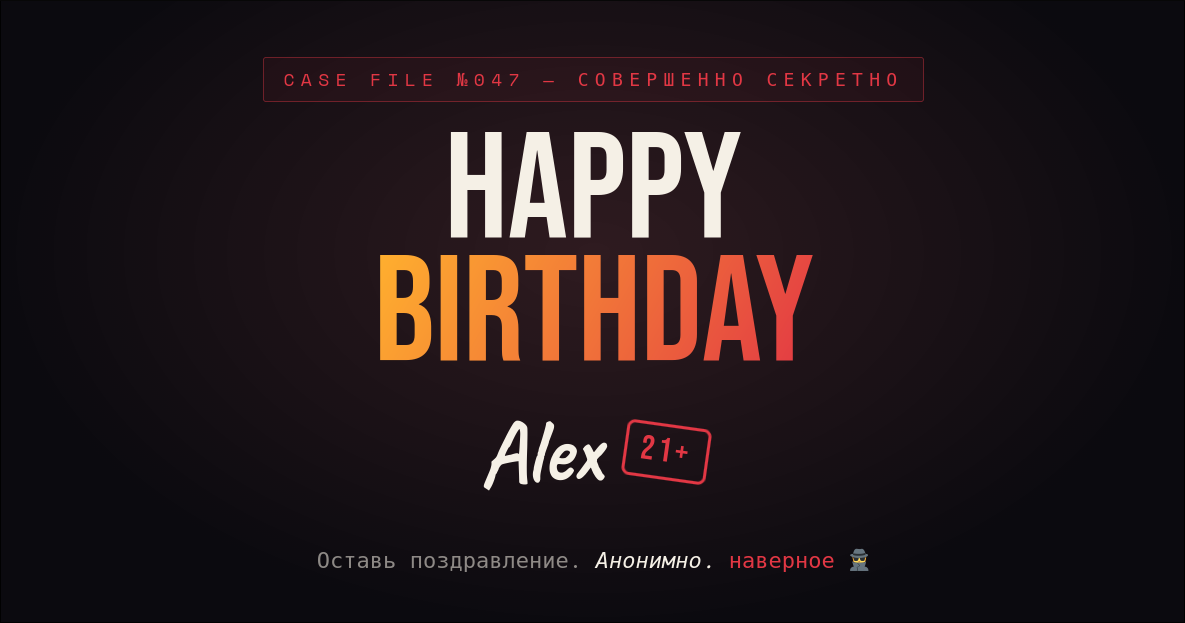
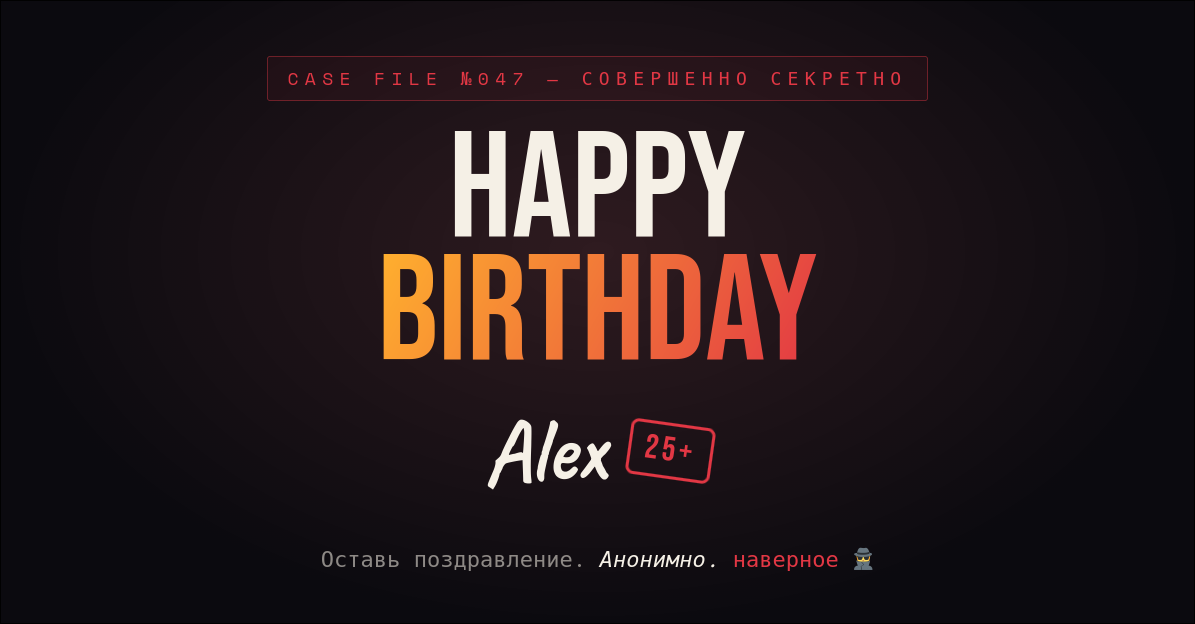
fix age 25

diff --git a/make-og.html b/make-og.html
@@ -1,0 +1,30 @@
+<!DOCTYPE html>
+<html><head><meta charset="UTF-8">
+    <link href="https://fonts.googleapis.com/css2?family=Bebas+Neue&family=Caveat:wght@700&family=Space+Mono:wght@400;700&display=swap" rel="stylesheet">
+    <style>
+        body{margin:0;display:flex;align-items:center;justify-content:center;background:#222;}
+        .og{width:1200px;height:630px;background:radial-gradient(ellipse at 50% 40%,rgba(60,20,30,.5),#0b0a0f 70%);
+            display:flex;flex-direction:column;align-items:center;justify-content:center;
+            font-family:'Space Mono',monospace;position:relative;overflow:hidden;}
+        .kick{font-size:18px;letter-spacing:.35em;color:#e23744;border:1px solid rgba(226,55,68,.4);
+            padding:8px 20px;border-radius:3px;background:rgba(226,55,68,.06);margin-bottom:30px;}
+        .h{font-family:'Bebas Neue',sans-serif;font-size:150px;line-height:.82;color:#f5f0e6;}
+        .h2{font-family:'Bebas Neue',sans-serif;font-size:150px;line-height:.82;
+            background:linear-gradient(120deg,#ffb02e,#e23744);-webkit-background-clip:text;
+            -webkit-text-fill-color:transparent;}
+        .nm{display:flex;align-items:center;gap:24px;margin-top:18px;}
+        .nm-s{font-family:'Caveat',cursive;font-size:90px;color:#f5f0e6;transform:rotate(-4deg);}
+        .stamp{font-family:'Bebas Neue',sans-serif;font-size:34px;letter-spacing:.1em;color:#e23744;
+            border:3px solid #e23744;border-radius:8px;padding:4px 14px;transform:rotate(8deg);}
+        .tag{font-size:22px;color:rgba(245,240,230,.55);margin-top:34px;}
+        .tag em{color:#f5f0e6;}.tag span{color:#e23744;}
+    </style></head>
+<body>
+<div class="og">
+    <div class="kick">CASE FILE №047 — СОВЕРШЕННО СЕКРЕТНО</div>
+    <div class="h">HAPPY</div>
+    <div class="h2">BIRTHDAY</div>
+    <div class="nm"><span class="nm-s">Alex</span><span class="stamp">25+</span></div>
+    <div class="tag">Оставь поздравление. <em>Анонимно.</em> <span>наверное 🕵️</span></div>
+</div>
+</body></html>

diff --git a/index.html b/index.html
@@ -42,7 +42,7 @@
 
   <div class="name-line">
     <span class="name-script">Alex</span>
-    <span class="stamp">21+</span>
+    <span class="stamp">25+</span>
   </div>
 
   <p class="tag">Оставь поздравление. <em>Анонимно.</em> <span class="tag-wink">наверное 🕵️</span></p>